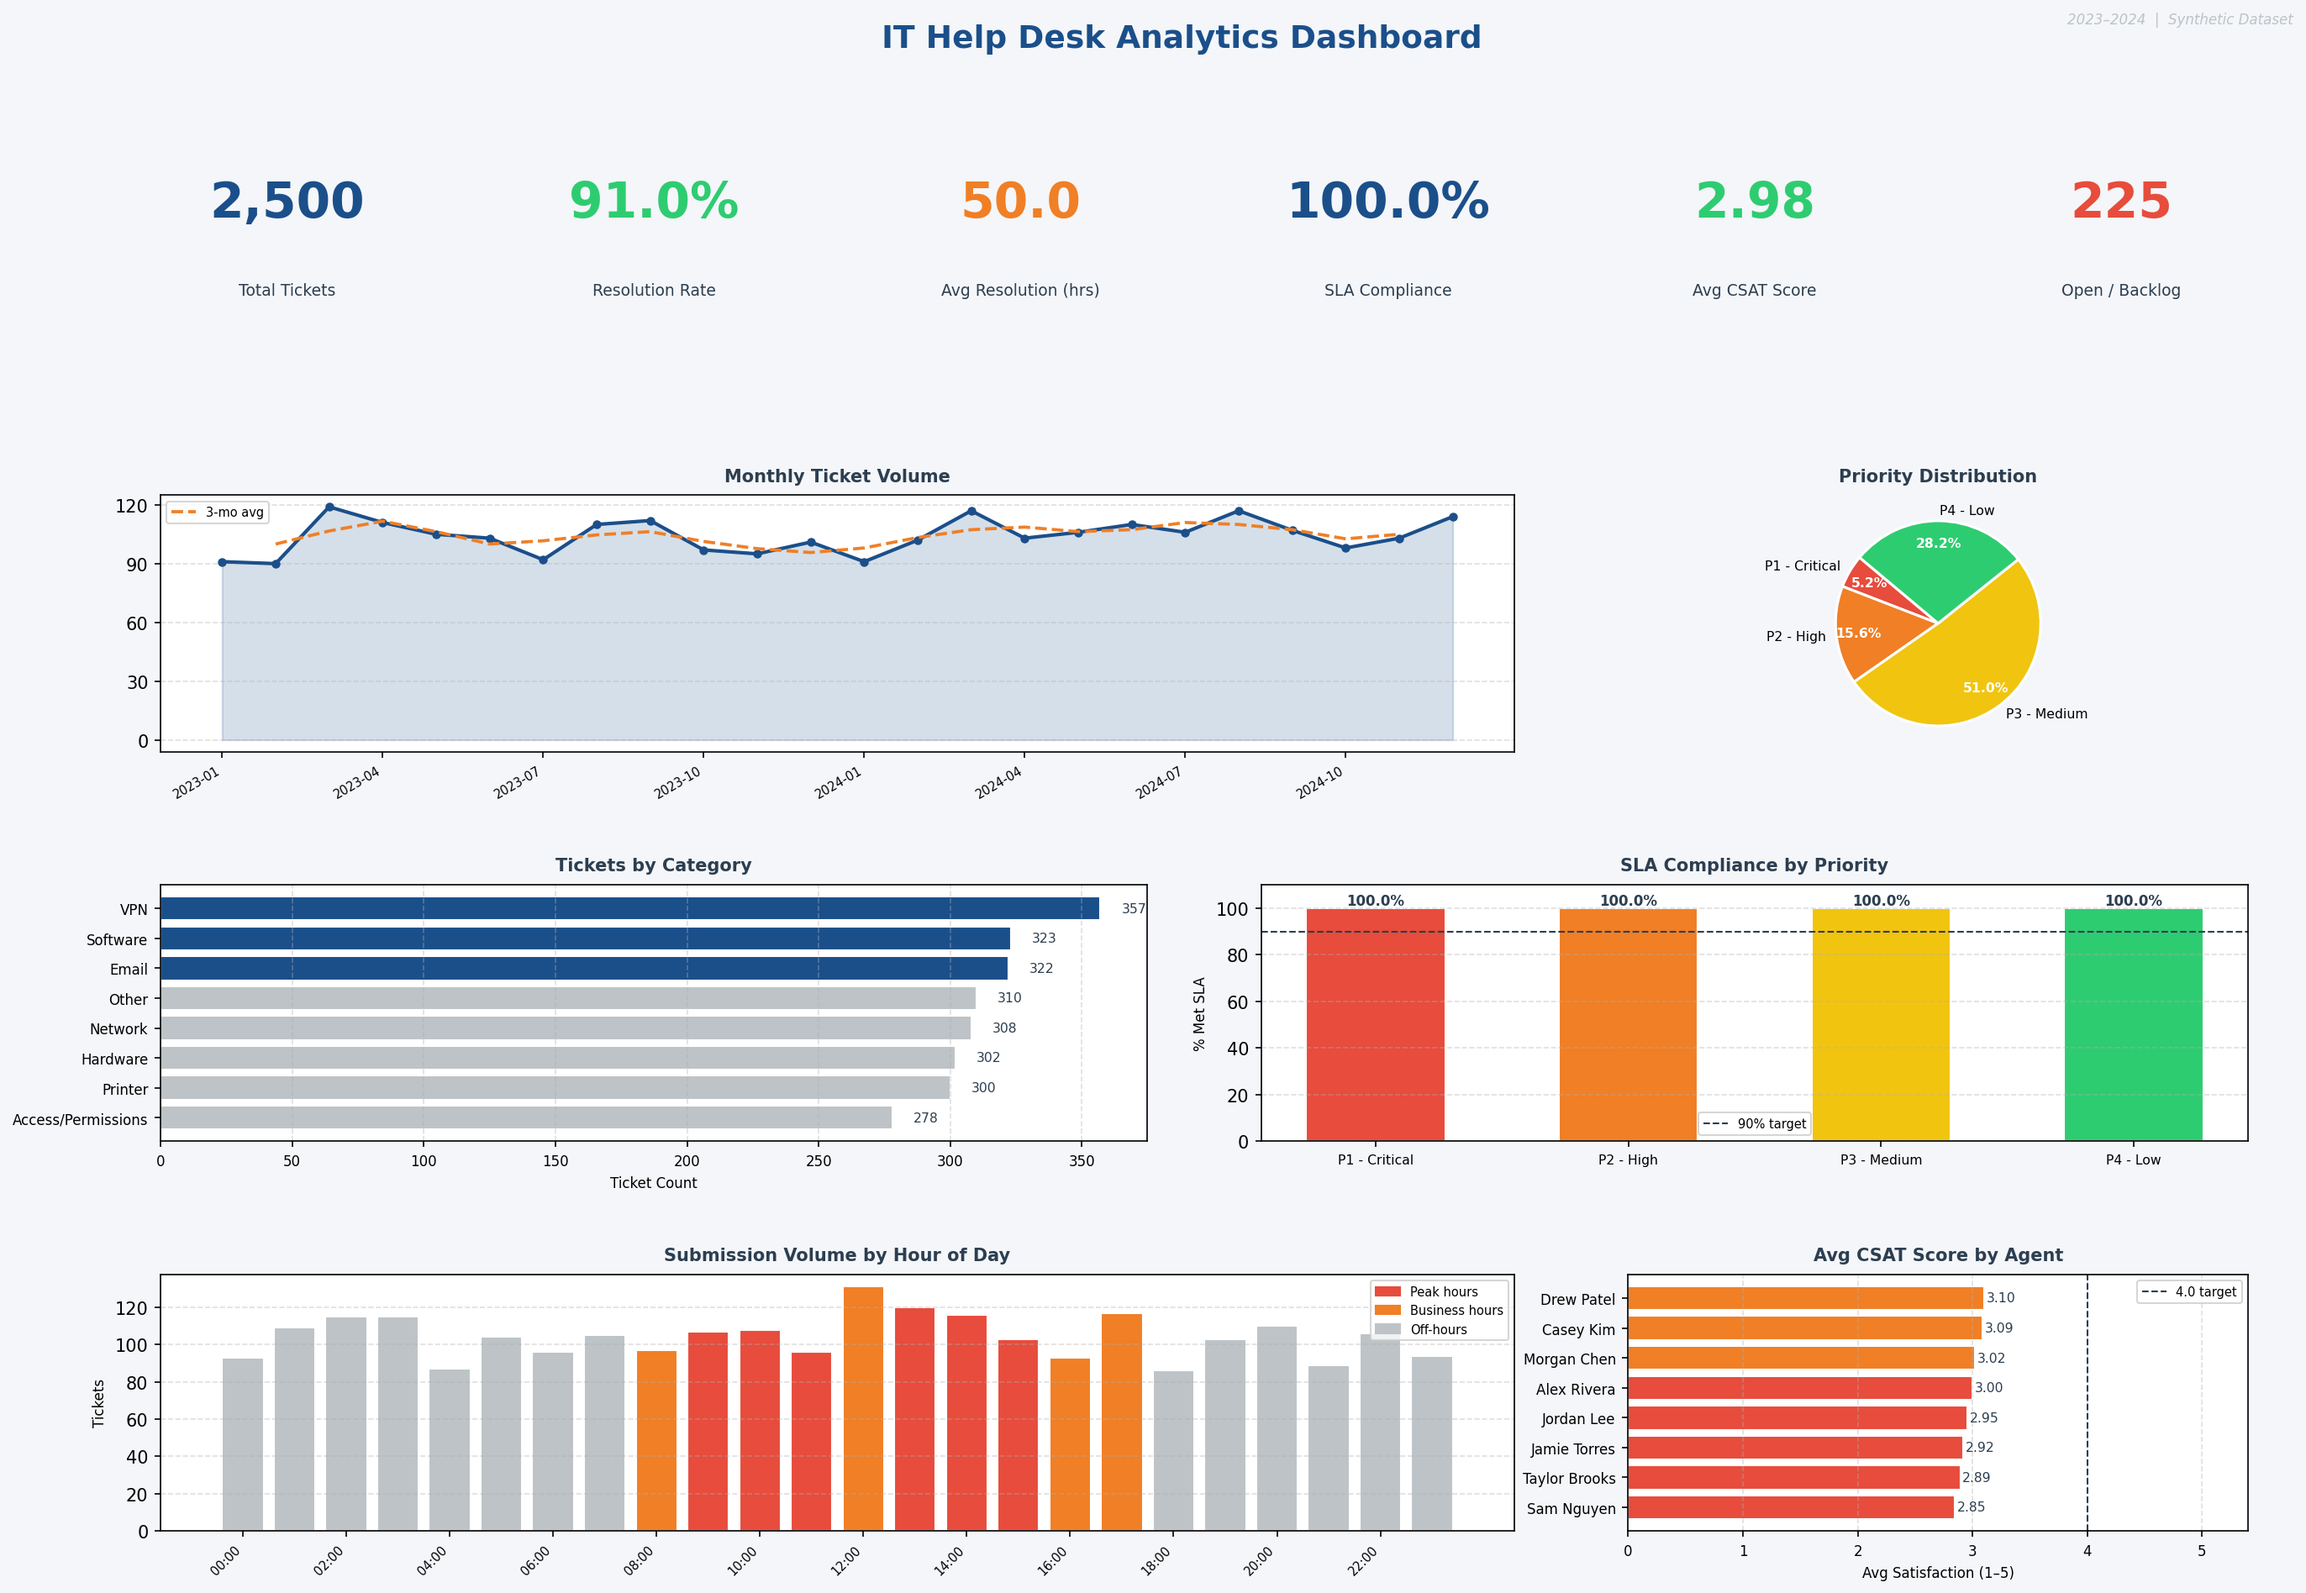
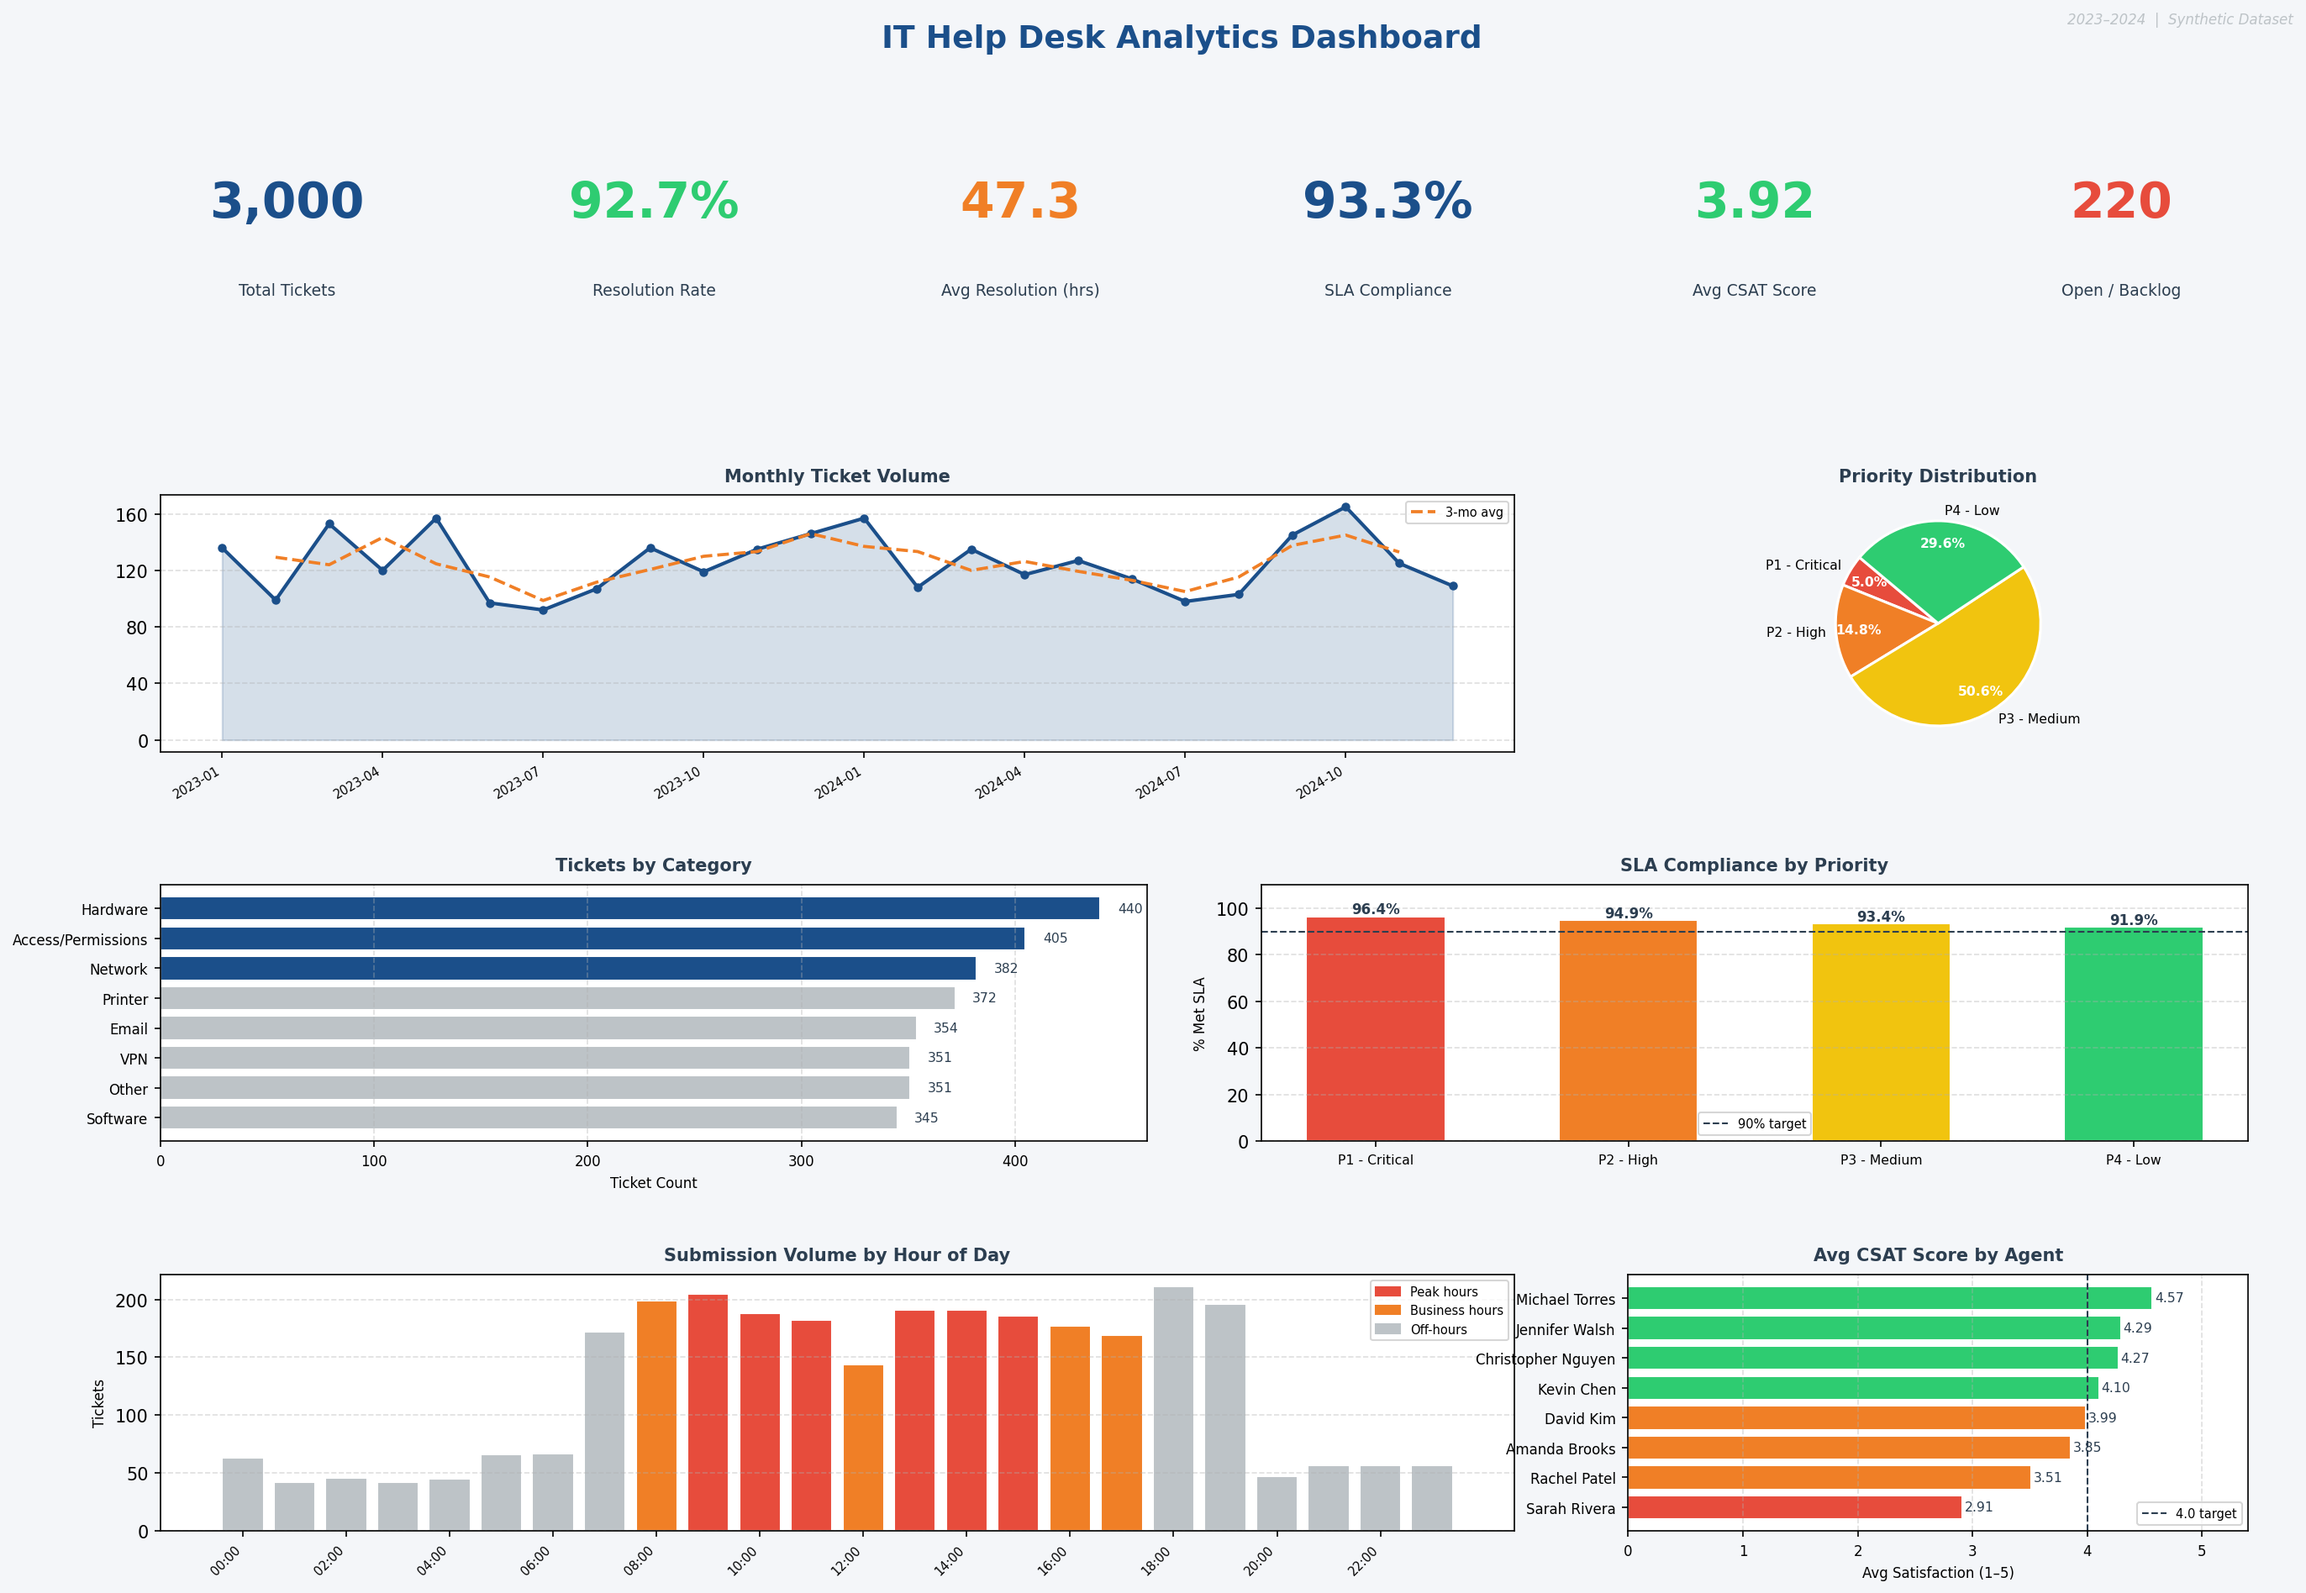
Add dashboard.py static export, update preview PNG with professional agent names

diff --git a/dashboard.py b/dashboard.py
@@ -1,0 +1,243 @@
+"""
+IT Help Desk Analytics Dashboard
+Generates a multi-panel KPI report and saves it to output/dashboard.png.
+Run: python dashboard.py
+"""
+
+import matplotlib
+matplotlib.use("Agg")  # headless — safe in all environments
+import pandas as pd
+import matplotlib.pyplot as plt
+import matplotlib.gridspec as gridspec
+import matplotlib.patches as mpatches
+from matplotlib.ticker import MaxNLocator
+import numpy as np
+from pathlib import Path
+
+PALETTE = {
+    "primary":   "#1B4F8A",
+    "accent":    "#F07F26",
+    "green":     "#2ECC71",
+    "red":       "#E74C3C",
+    "light_bg":  "#F4F6F9",
+    "mid_grey":  "#BDC3C7",
+    "text":      "#2C3E50",
+}
+
+PRIORITY_ORDER = ["P1 - Critical", "P2 - High", "P3 - Medium", "P4 - Low"]
+PRIORITY_COLORS = ["#E74C3C", "#F07F26", "#F1C40F", "#2ECC71"]
+
+
+def load_data(path="data/tickets.csv"):
+    df = pd.read_csv(path, parse_dates=["created_at", "resolved_at"])
+    df["resolution_hours"] = pd.to_numeric(df["resolution_hours"], errors="coerce")
+    df["satisfaction_score"] = pd.to_numeric(df["satisfaction_score"], errors="coerce")
+    df["met_sla"] = df["met_sla"].astype(str).map({"True": True, "False": False})
+    df["month"] = df["created_at"].dt.to_period("M")
+    df["hour"] = df["created_at"].dt.hour
+    return df
+
+
+def kpi_tile(ax, value, label, color=None, fmt="{:.0f}"):
+    ax.set_facecolor(PALETTE["light_bg"])
+    ax.axis("off")
+    ax.text(0.5, 0.62, fmt.format(value) if isinstance(value, (int, float)) else value,
+            ha="center", va="center", fontsize=28, fontweight="bold",
+            color=color or PALETTE["primary"], transform=ax.transAxes)
+    ax.text(0.5, 0.28, label, ha="center", va="center", fontsize=9,
+            color=PALETTE["text"], transform=ax.transAxes)
+    for spine in ax.spines.values():
+        spine.set_visible(False)
+
+
+def plot_monthly_trend(ax, df):
+    monthly = df.groupby("month").size().reset_index(name="count")
+    monthly["month_str"] = monthly["month"].astype(str)
+
+    x = range(len(monthly))
+    ax.fill_between(x, monthly["count"], alpha=0.18, color=PALETTE["primary"])
+    ax.plot(x, monthly["count"], color=PALETTE["primary"], linewidth=2, marker="o", markersize=4)
+
+    # rolling 3-month average
+    avg = monthly["count"].rolling(3, center=True).mean()
+    ax.plot(x, avg, color=PALETTE["accent"], linewidth=1.8, linestyle="--", label="3-mo avg")
+
+    step = max(1, len(monthly) // 8)
+    ax.set_xticks(list(x)[::step])
+    ax.set_xticklabels(monthly["month_str"].tolist()[::step], rotation=30, ha="right", fontsize=7)
+    ax.yaxis.set_major_locator(MaxNLocator(integer=True, nbins=5))
+    ax.set_title("Monthly Ticket Volume", fontsize=10, fontweight="bold", color=PALETTE["text"], pad=8)
+    ax.legend(fontsize=7)
+    ax.grid(axis="y", linestyle="--", alpha=0.4)
+    ax.set_facecolor("white")
+
+
+def plot_category_bar(ax, df):
+    cat_counts = df["category"].value_counts()
+    colors = [PALETTE["primary"] if i < 3 else PALETTE["mid_grey"] for i in range(len(cat_counts))]
+    bars = ax.barh(cat_counts.index, cat_counts.values, color=colors, edgecolor="white")
+    for bar, val in zip(bars, cat_counts.values):
+        ax.text(val + 8, bar.get_y() + bar.get_height() / 2,
+                str(val), va="center", fontsize=7.5, color=PALETTE["text"])
+    ax.set_title("Tickets by Category", fontsize=10, fontweight="bold", color=PALETTE["text"], pad=8)
+    ax.invert_yaxis()
+    ax.set_xlabel("Ticket Count", fontsize=8)
+    ax.grid(axis="x", linestyle="--", alpha=0.4)
+    ax.set_facecolor("white")
+    ax.tick_params(labelsize=8)
+
+
+def plot_sla_by_priority(ax, df):
+    resolved = df[df["met_sla"].notna()]
+    sla = resolved.groupby("priority")["met_sla"].apply(lambda x: 100 * x.sum() / len(x)).reindex(PRIORITY_ORDER)
+
+    bars = ax.bar(PRIORITY_ORDER, sla.values, color=PRIORITY_COLORS, edgecolor="white", width=0.55)
+    ax.axhline(90, color=PALETTE["text"], linestyle="--", linewidth=1, label="90% target")
+    for bar, val in zip(bars, sla.values):
+        ax.text(bar.get_x() + bar.get_width() / 2, val + 1.2,
+                f"{val:.1f}%", ha="center", fontsize=8, fontweight="bold", color=PALETTE["text"])
+    ax.set_ylim(0, 110)
+    ax.set_title("SLA Compliance by Priority", fontsize=10, fontweight="bold", color=PALETTE["text"], pad=8)
+    ax.set_ylabel("% Met SLA", fontsize=8)
+    ax.tick_params(axis="x", labelsize=7.5)
+    ax.legend(fontsize=7)
+    ax.grid(axis="y", linestyle="--", alpha=0.4)
+    ax.set_facecolor("white")
+
+
+def plot_agent_csat(ax, df):
+    agent_stats = (
+        df[df["satisfaction_score"].notna()]
+        .groupby("assigned_agent")["satisfaction_score"]
+        .mean()
+        .sort_values(ascending=True)
+    )
+    colors = [PALETTE["green"] if v >= 4 else PALETTE["accent"] if v >= 3 else PALETTE["red"]
+              for v in agent_stats.values]
+    bars = ax.barh(agent_stats.index, agent_stats.values, color=colors, edgecolor="white")
+    ax.axvline(4.0, color=PALETTE["text"], linestyle="--", linewidth=1, label="4.0 target")
+    for bar, val in zip(bars, agent_stats.values):
+        ax.text(val + 0.02, bar.get_y() + bar.get_height() / 2,
+                f"{val:.2f}", va="center", fontsize=7.5, color=PALETTE["text"])
+    ax.set_xlim(0, 5.4)
+    ax.set_title("Avg CSAT Score by Agent", fontsize=10, fontweight="bold", color=PALETTE["text"], pad=8)
+    ax.set_xlabel("Avg Satisfaction (1–5)", fontsize=8)
+    ax.legend(fontsize=7)
+    ax.grid(axis="x", linestyle="--", alpha=0.4)
+    ax.set_facecolor("white")
+    ax.tick_params(labelsize=8)
+
+
+def plot_hourly_heatmap(ax, df):
+    hourly = df.groupby("hour").size().reindex(range(24), fill_value=0)
+    colors = [PALETTE["red"] if h in range(9, 12) or h in range(13, 16) else
+              PALETTE["accent"] if h in range(8, 18) else PALETTE["mid_grey"]
+              for h in range(24)]
+    ax.bar(range(24), hourly.values, color=colors, edgecolor="white", width=0.8)
+    ax.set_xticks(range(0, 24, 2))
+    ax.set_xticklabels([f"{h:02d}:00" for h in range(0, 24, 2)], rotation=45, ha="right", fontsize=7)
+    ax.set_title("Submission Volume by Hour of Day", fontsize=10, fontweight="bold", color=PALETTE["text"], pad=8)
+    ax.set_ylabel("Tickets", fontsize=8)
+    ax.grid(axis="y", linestyle="--", alpha=0.4)
+    ax.set_facecolor("white")
+
+    handles = [
+        mpatches.Patch(color=PALETTE["red"], label="Peak hours"),
+        mpatches.Patch(color=PALETTE["accent"], label="Business hours"),
+        mpatches.Patch(color=PALETTE["mid_grey"], label="Off-hours"),
+    ]
+    ax.legend(handles=handles, fontsize=7)
+
+
+def plot_priority_pie(ax, df):
+    counts = df["priority"].value_counts().reindex(PRIORITY_ORDER, fill_value=0)
+    wedges, texts, autotexts = ax.pie(
+        counts.values,
+        labels=PRIORITY_ORDER,
+        colors=PRIORITY_COLORS,
+        autopct="%1.1f%%",
+        startangle=140,
+        pctdistance=0.78,
+        wedgeprops={"edgecolor": "white", "linewidth": 1.5},
+    )
+    for t in texts:
+        t.set_fontsize(7.5)
+    for at in autotexts:
+        at.set_fontsize(7.5)
+        at.set_color("white")
+        at.set_fontweight("bold")
+    ax.set_title("Priority Distribution", fontsize=10, fontweight="bold", color=PALETTE["text"], pad=8)
+
+
+def build_dashboard(df):
+    Path("output").mkdir(exist_ok=True)
+
+    total = len(df)
+    resolved = df[df["status"].isin(["Resolved", "Closed"])]
+    resolution_rate = 100 * len(resolved) / total
+    mttr = df["resolution_hours"].mean()
+    sla_denom = df["met_sla"].notna().sum()
+    sla_pct = 100 * df["met_sla"].sum() / sla_denom if sla_denom > 0 else 0
+    csat = df["satisfaction_score"].mean()
+    open_count = df[df["status"].isin(["Open", "In Progress", "Pending User"])].shape[0]
+
+    fig = plt.figure(figsize=(18, 13), facecolor=PALETTE["light_bg"])
+    fig.suptitle(
+        "IT Help Desk Analytics Dashboard",
+        fontsize=18, fontweight="bold", color=PALETTE["primary"], y=0.97
+    )
+    fig.text(0.99, 0.97, "2023–2024  |  Synthetic Dataset", ha="right",
+             fontsize=8, color=PALETTE["mid_grey"], style="italic")
+
+    gs = gridspec.GridSpec(
+        4, 6,
+        figure=fig,
+        hspace=0.52,
+        wspace=0.45,
+        left=0.05, right=0.97,
+        top=0.92, bottom=0.05,
+    )
+
+    # Row 0 — KPI tiles (6 across)
+    kpis = [
+        (total,           "Total Tickets",        PALETTE["primary"], "{:,.0f}"),
+        (resolution_rate, "Resolution Rate",      PALETTE["green"],   "{:.1f}%"),
+        (mttr,            "Avg Resolution (hrs)", PALETTE["accent"],  "{:.1f}"),
+        (sla_pct,         "SLA Compliance",       PALETTE["primary"], "{:.1f}%"),
+        (csat,            "Avg CSAT Score",        PALETTE["green"],   "{:.2f}"),
+        (open_count,      "Open / Backlog",        PALETTE["red"],     "{:,.0f}"),
+    ]
+    for col, (val, label, color, fmt) in enumerate(kpis):
+        ax = fig.add_subplot(gs[0, col])
+        kpi_tile(ax, val, label, color, fmt)
+
+    # Row 1 — Monthly trend (span 4) + priority pie (span 2)
+    ax_trend = fig.add_subplot(gs[1, :4])
+    plot_monthly_trend(ax_trend, df)
+
+    ax_pie = fig.add_subplot(gs[1, 4:])
+    plot_priority_pie(ax_pie, df)
+
+    # Row 2 — Category bar (span 3) + SLA by priority (span 3)
+    ax_cat = fig.add_subplot(gs[2, :3])
+    plot_category_bar(ax_cat, df)
+
+    ax_sla = fig.add_subplot(gs[2, 3:])
+    plot_sla_by_priority(ax_sla, df)
+
+    # Row 3 — Hourly (span 4) + Agent CSAT (span 2)
+    ax_hour = fig.add_subplot(gs[3, :4])
+    plot_hourly_heatmap(ax_hour, df)
+
+    ax_agent = fig.add_subplot(gs[3, 4:])
+    plot_agent_csat(ax_agent, df)
+
+    out = "output/dashboard.png"
+    fig.savefig(out, dpi=150, bbox_inches="tight", facecolor=fig.get_facecolor())
+    plt.close(fig)
+    print(f"Dashboard saved → {out}")
+
+
+if __name__ == "__main__":
+    df = load_data()
+    build_dashboard(df)
